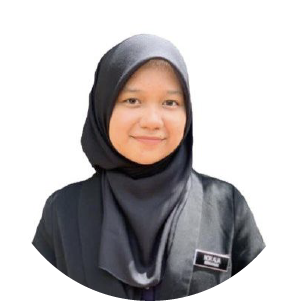
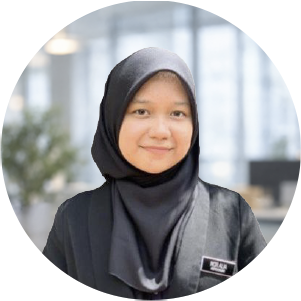
feat: redirects unknown paths to the homepage.
-checking in package-lock.json to prevent "Works on My Machine" Syndrome

-update 3 nur/nor profile picture

diff --git a/src/App.jsx b/src/App.jsx
@@ -1,5 +1,5 @@
 import React from "react";
-import { BrowserRouter, Routes, Route } from "react-router-dom";
+import { BrowserRouter, Routes, Route, Navigate } from "react-router-dom";
 import Home from "./pages/home";
 import MeetTheTeam from "./pages/meet-the-team";
 import { ScrollToTop } from "./utilities/scroll-to-top";
@@ -18,6 +18,7 @@ const App = () => {
       <Routes>
         <Route path="/" element={<Home />} />
         <Route path="/meet-the-team" element={<MeetTheTeam />} />
+        <Route path="*" element={<Navigate to="/" replace />} />
       </Routes>
     </BrowserRouter>
   );
